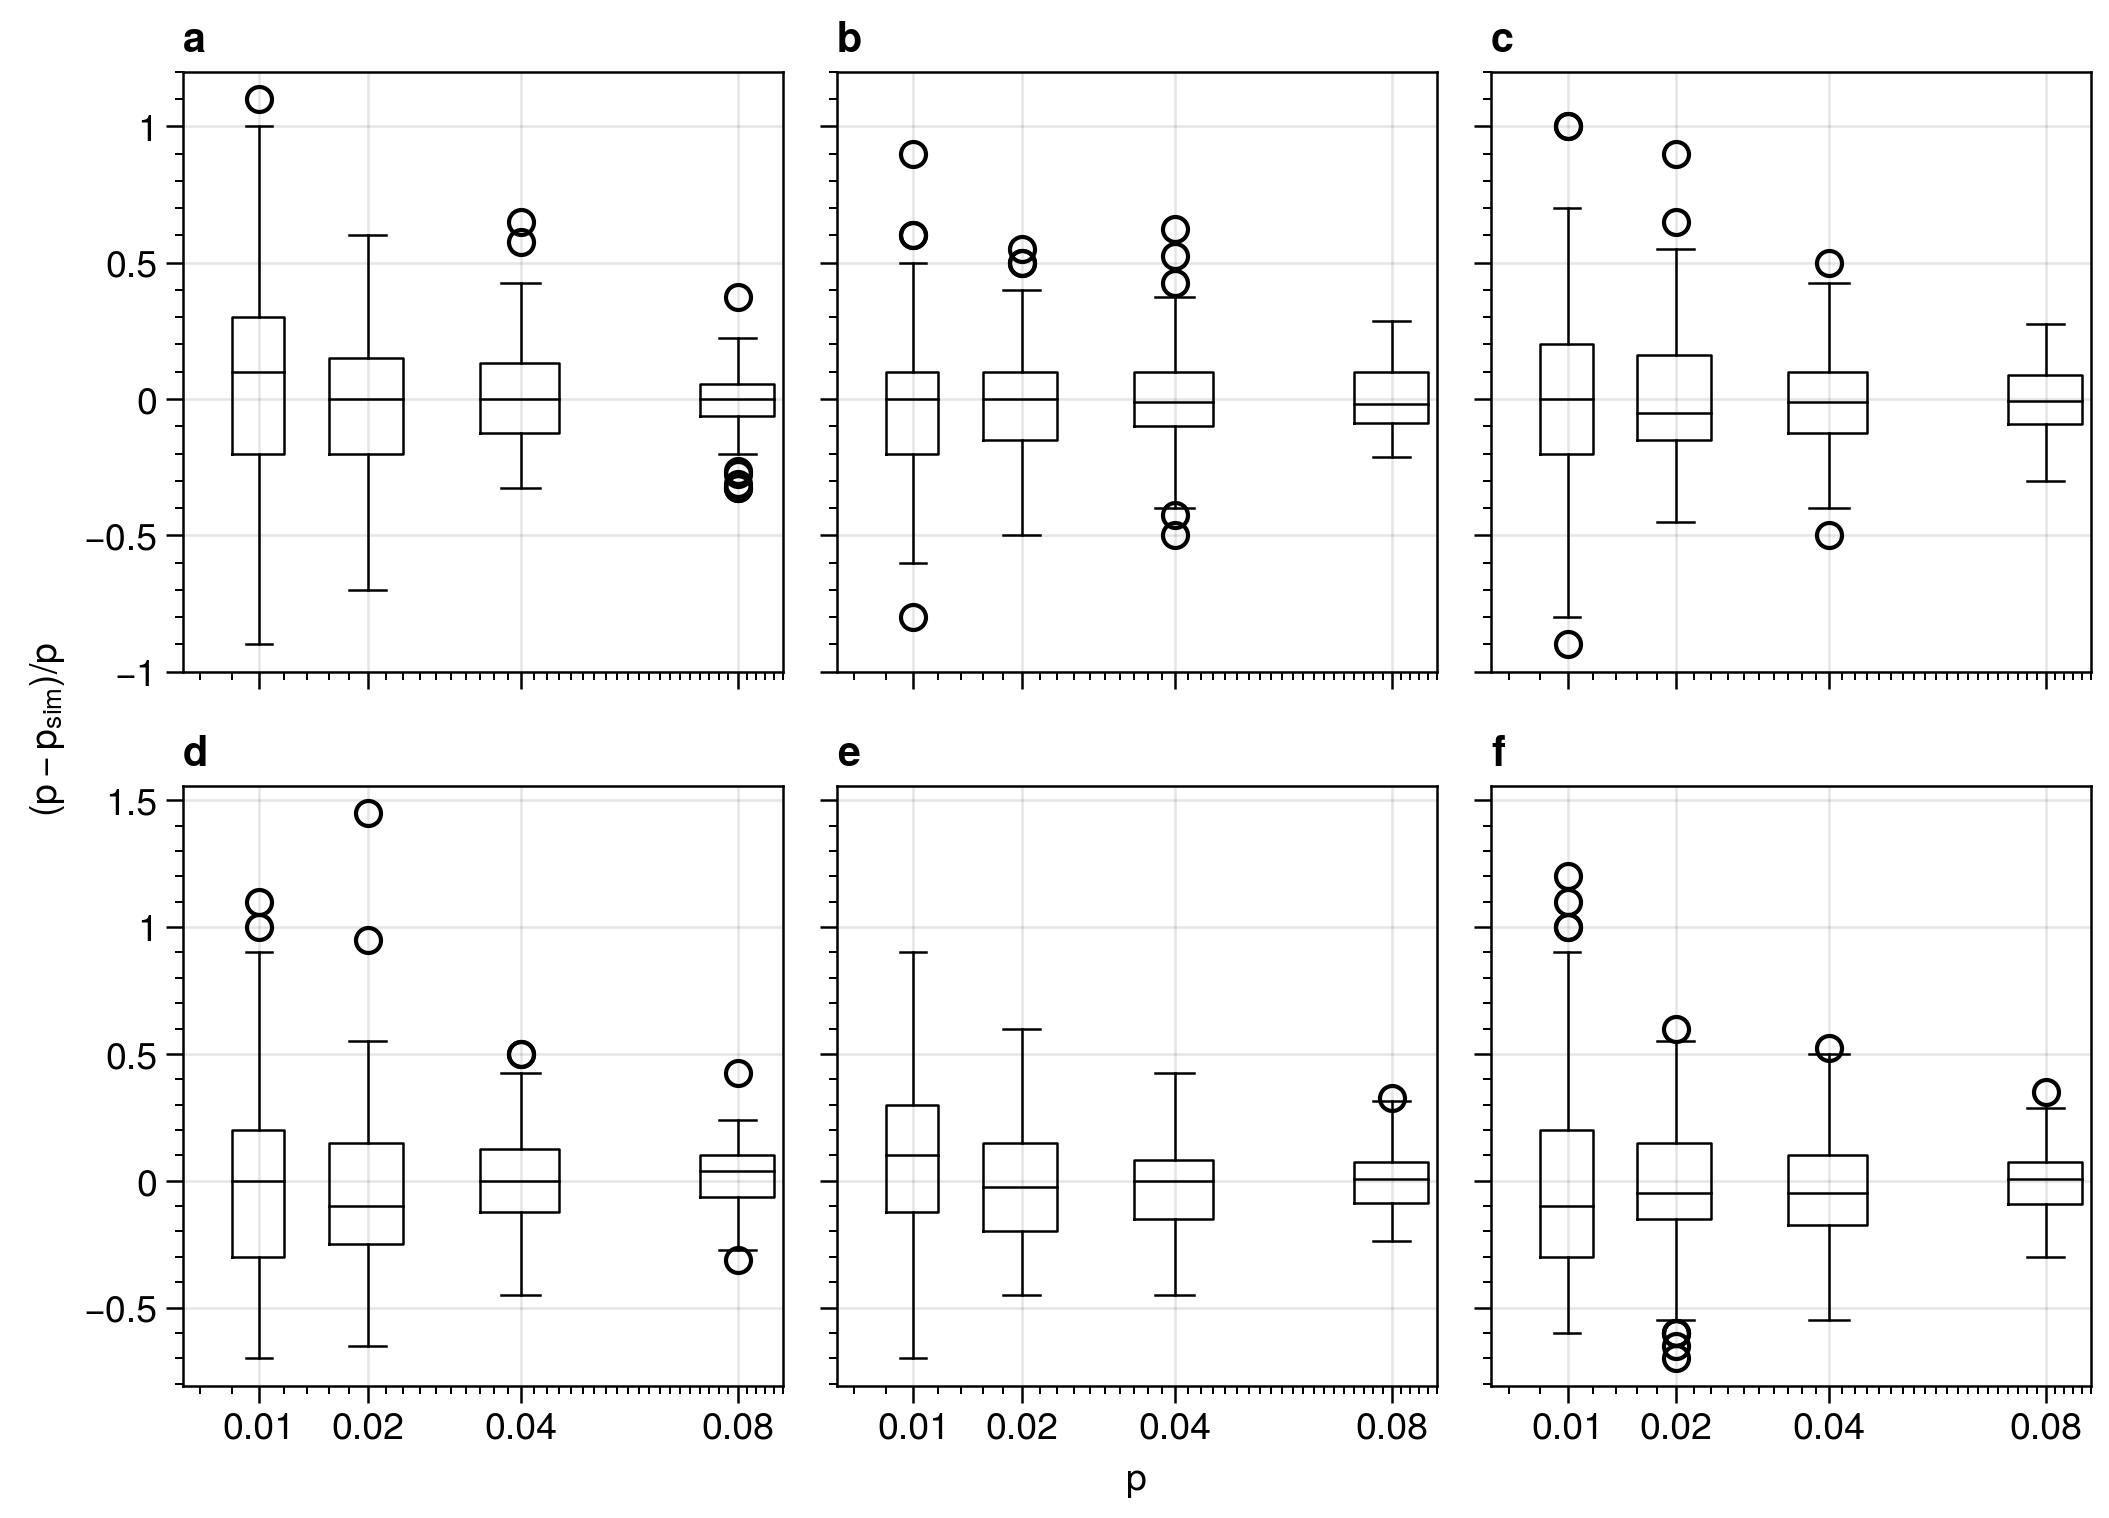
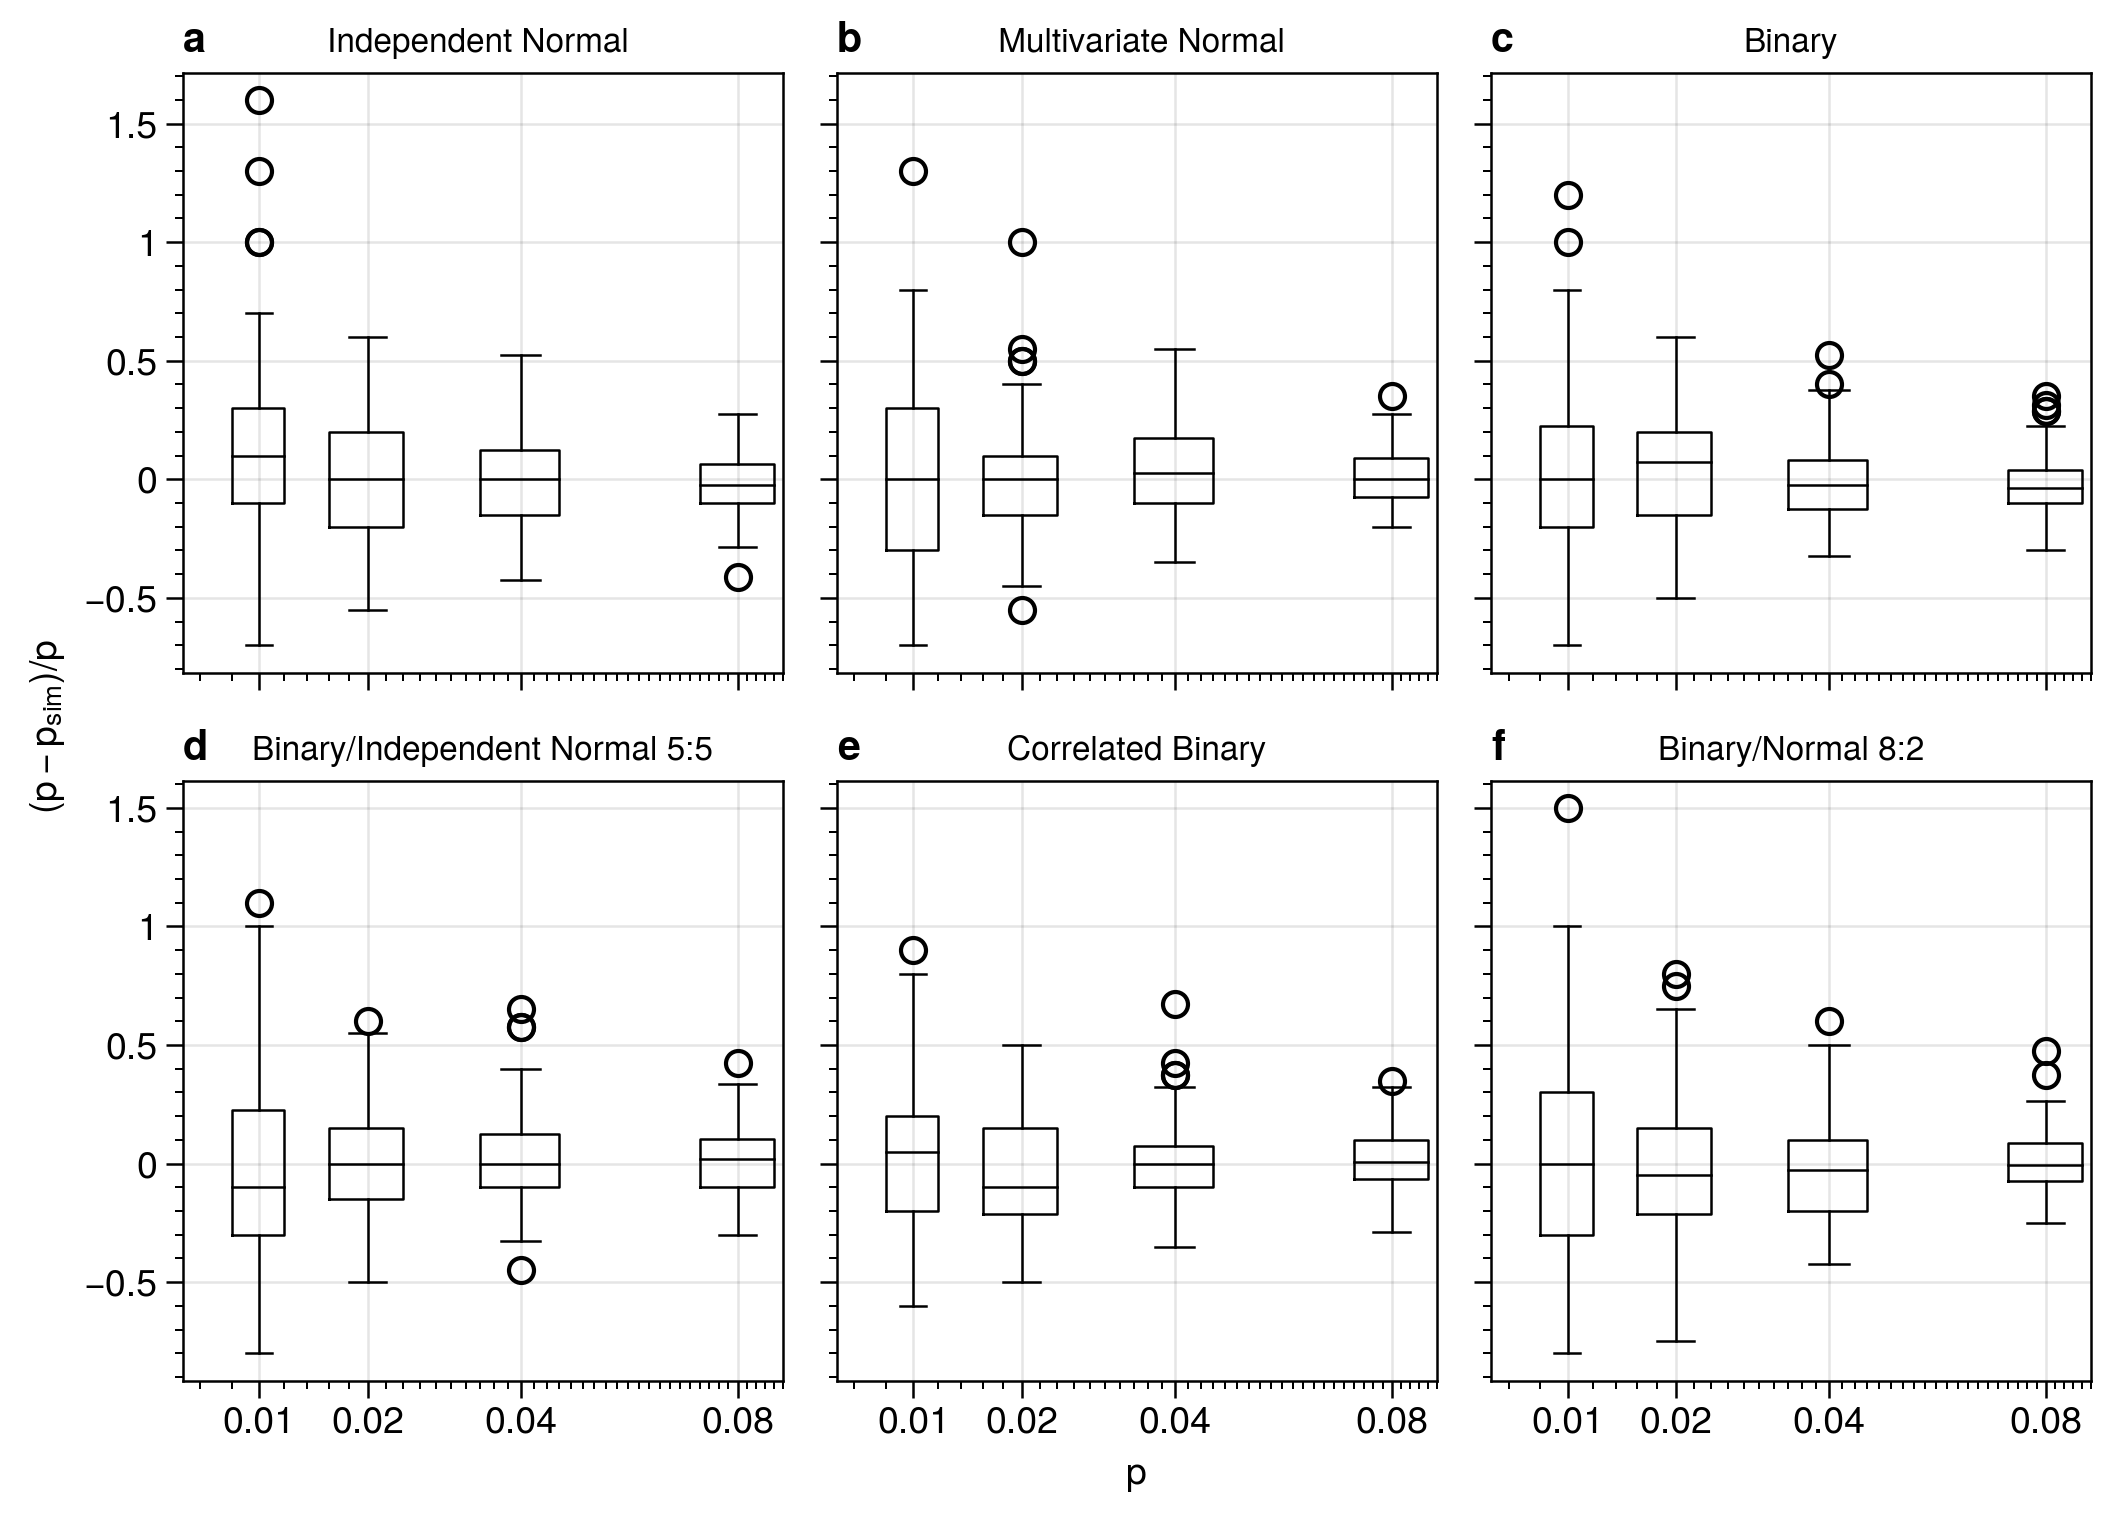
alpha res figure ok now, other minor figure improvements

diff --git a/plot_alpha_betas.py b/plot_alpha_betas.py
@@ -9,13 +9,13 @@ import proplot as pplt
 import numpy as np
 import pandas as pd
 from util import simulate_austin
+import matplotlib.pyplot as plt
 
 
 with open(join(base_dir, 'data_and_params', 'alpha0_meds.pkl'), 'rb') as f:
     alpha0_med_dic = pkl.load(f)
-alpha0_med_dic
 alpha0_df = pd.DataFrame(alpha0_med_dic).transpose()
-fig, axs = pplt.subplots(nrows=1, ncols=3)
+fig, axs = plt.subplots(nrows=1, ncols=3, figsize=(9.5,2.5))
 sns.heatmap(alpha0_df, ax=axs[0], annot=True)
 axs[0].set_xticklabels(np.logspace(0, 3, 4, base=2)/100)
 fig.savefig(join(base_dir, 'figs', 'alpha_0_beta0_exp_beta_0_res_1000_pats_100_iter.png'),dpi=300)

diff --git a/obtain_alpha0.py b/obtain_alpha0.py
@@ -35,7 +35,7 @@ for i in range(6):
         #diffs_ls.append(diffs)
     #axs[i].format(xlim=(0,0.11), xlocator=prevalences, xformatter='{:.2f}')
     axs[i].format(xlim=(0.005,0.09), xscale=('power', 1/2), xticks=prevalences)
-    axs[i].set_title(simulate_austin.var_set_dic[setting])
+    axs[i].set_title(simulate_austin.var_set_dic[setting], fontsize=8)
     alpha0_med_dic[setting] = a0_med_ls
 fig.format(xlabel='p', ylabel=r'$(p-p_{\mathrm{sim}})/p$') 
 fig.savefig(join(base_dir, 'figs', 'get_alpha_0_res_1000_pats_100_iter.png'),dpi=300)

diff --git a/util/simulate_austin.py b/util/simulate_austin.py
@@ -6,9 +6,9 @@ import scipy.optimize as so
 var_set_dic = {'a':'Independent Normal ',
                 'b':' Multivariate Normal',
                 'c':'Binary',
-                'd':'Binary/ Independent Normal 5:5',
+                'd':'Binary/Independent Normal 5:5',
                 'e':'Correlated Binary',
-                'f':'Binary/ Normal 8:2'}
+                'f':'Binary/Normal 8:2'}
 
 def simulate_pats(setting, num_vars=10, num_patients=1000,
         correlation=0.25, p=0.5, cutoff=0):
